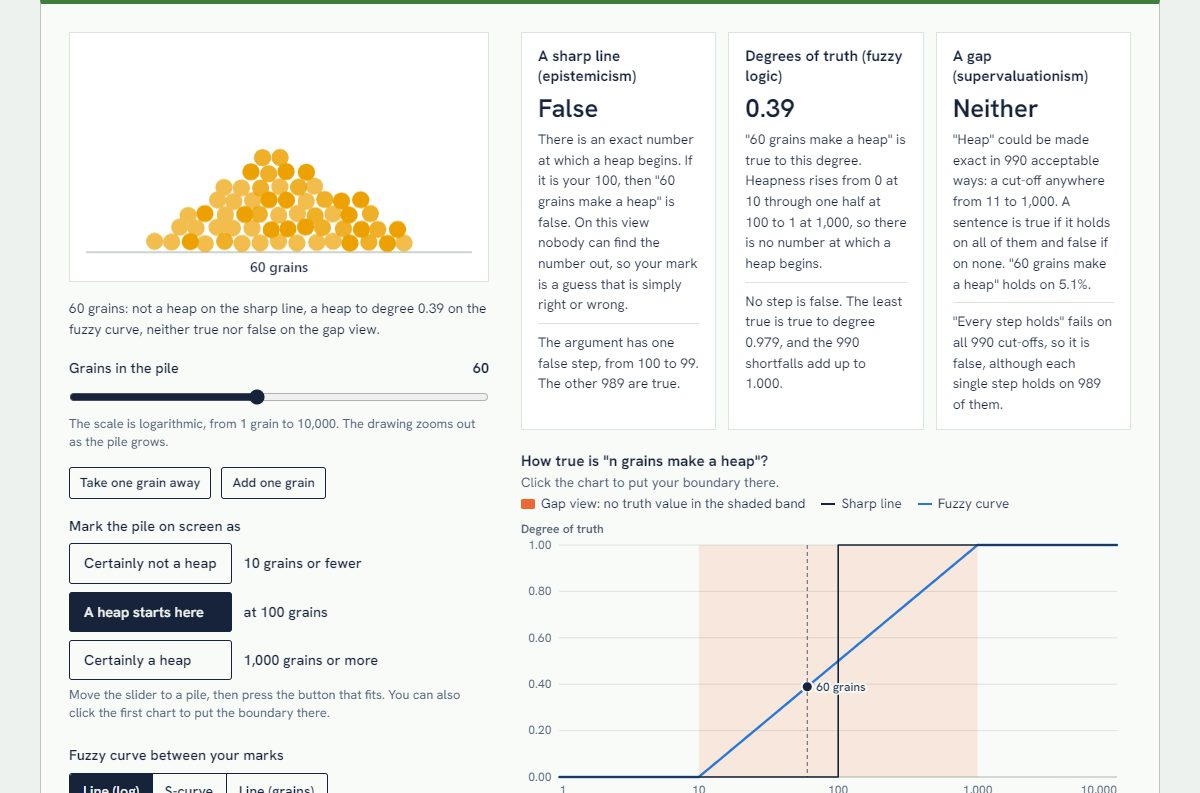
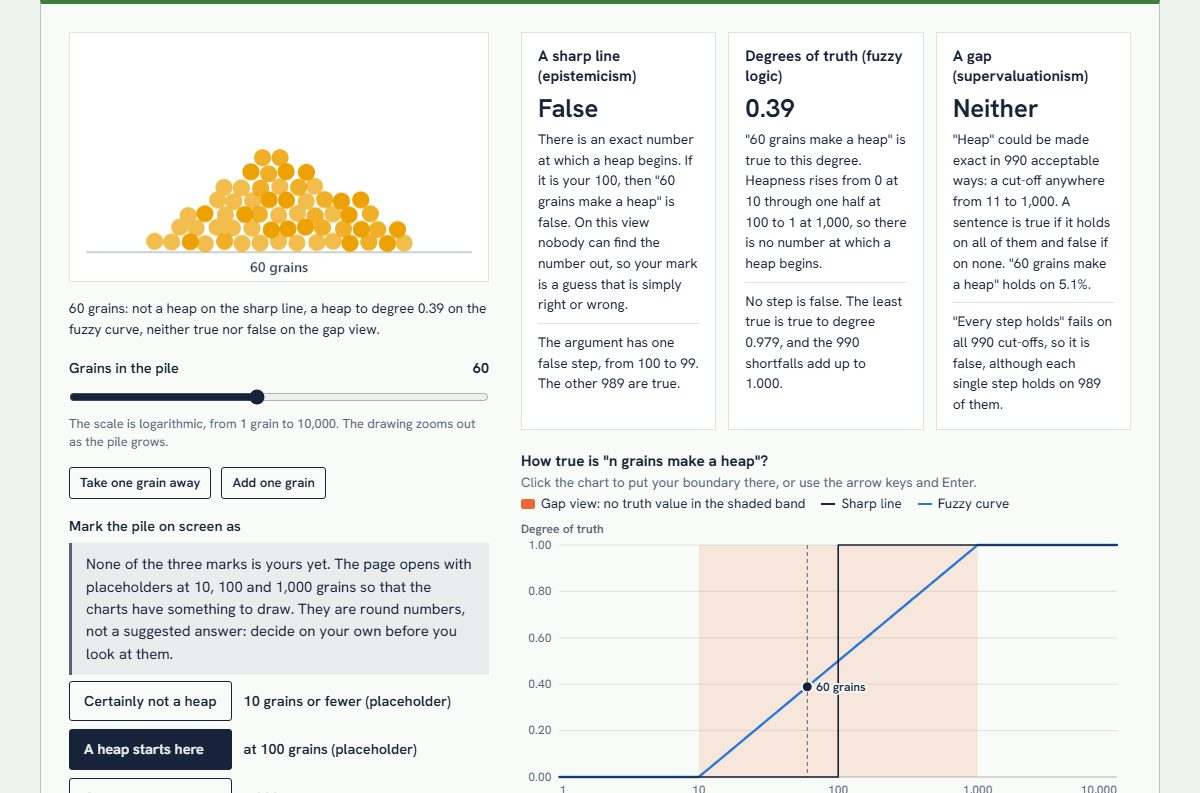
Review project 15: label placeholder marks, report tied steps, boundary wording

diff --git a/365projects/15/app.js b/365projects/15/app.js
@@ -5,7 +5,7 @@ import { MAX, DEFAULT_MARKS, SHAPES, grainsAt, positionOf, setMark, crisp, membe
 mount();
 
 const START = 60;
-const state = { n: START, marks: { ...DEFAULT_MARKS }, shape: "log", moved: [] };
+const state = { n: START, marks: { ...DEFAULT_MARKS }, own: { lo: false, mid: false, hi: false }, shape: "log", moved: [] };
 const grains = (n) => `${fmt.int(n)} grain${n === 1 ? "" : "s"}`;
 const MARK_NAMES = { lo: "certainly not a heap", mid: "where a heap starts", hi: "certainly a heap" };
 
@@ -14,8 +14,13 @@ const GRAINS = pile(MAX, 15);
 const look = rng(151);
 const LOOK = GRAINS.map(() => ({ dx: look.uniform(-0.12, 0.12), dy: look.uniform(-0.08, 0.08), shade: look.int(0, 2) }));
 // How far the pile of n grains reaches sideways and upwards, so that the drawing can zoom to fit it.
-const reach = new Int16Array(MAX + 1), top = new Int16Array(MAX + 1);
-GRAINS.forEach((g, i) => { reach[i + 1] = Math.max(reach[i], Math.abs(g.col) + 1); top[i + 1] = Math.max(top[i], g.row); });
+const reach = new Int16Array(MAX + 1), top = new Int16Array(MAX + 1), left = new Int16Array(MAX + 1), right = new Int16Array(MAX + 1);
+GRAINS.forEach((g, i) => {
+  reach[i + 1] = Math.max(reach[i], Math.abs(g.col) + 1); top[i + 1] = Math.max(top[i], g.row);
+  left[i + 1] = i ? Math.min(left[i], g.col) : g.col; right[i + 1] = i ? Math.max(right[i], g.col) : g.col;
+});
+// What the drawing shows, in words: the pile's width along the ground and its height at the peak, counted in grains.
+const pileInWords = (n) => `A drawing of a pile of ${grains(n)}, ${fmt.int(right[n] - left[n] + 1)} wide along the ground and ${fmt.int(top[n] + 1)} high at its peak`;
 const SHADES = [0.7, 0.85, 1];
 
 function drawPile(ctx, w, h) {
@@ -58,24 +63,27 @@ const step = (by) => { state.n = Math.min(MAX, Math.max(1, state.n + by)); state
 const lessBtn = button("Take one grain away", () => step(-1), { small: true });
 const moreBtn = button("Add one grain", () => step(1), { small: true });
 
-const mark = (which, n = state.n) => { const r = setMark(state.marks, which, n); state.marks = r.marks; state.moved = r.moved; render(); };
+const mark = (which, n = state.n) => { const r = setMark(state.marks, which, n); state.marks = r.marks; state.moved = r.moved; state.own[which] = true; render(); };
 const markRows = [
   { key: "lo", btn: button("Certainly not a heap", () => mark("lo")), says: (m) => `${grains(m.lo)} or fewer` },
   { key: "mid", btn: button("A heap starts here", () => mark("mid"), { primary: true }), says: (m) => `at ${grains(m.mid)}` },
   { key: "hi", btn: button("Certainly a heap", () => mark("hi")), says: (m) => `${grains(m.hi)} or more` },
-].map((r) => ({ ...r, value: el("span", { class: "mark-value" }) }));
+].map((r) => ({ ...r, value: el("span", { class: "mark-value", role: "status" }) }));
+const setText = (node, text) => { if (node.textContent !== text) node.textContent = text; };
 const movedBox = el("div");
+const placeholderBox = el("div");
 const shapeSeg = segmented({
   label: "Fuzzy curve between your marks", options: SHAPES, value: "log",
-  hint: "Straight lines on the log scale, an S-curve, or straight lines in the grain count. All three pass through 0 at your lower mark, one half at your boundary and 1 at your upper mark.",
+  hint: "Straight lines on the log scale, an S-curve, or straight lines in the grain count. All three pass through 0 at your lower mark, one half at your boundary and 1 at your upper mark. If the boundary and the upper mark are the same pile, the curve jumps to 1 there.",
   onChange: (v) => { state.shape = v; render(); },
 });
-const resetBtn = button("Reset the marks", () => { state.marks = { ...DEFAULT_MARKS }; state.moved = []; render(); }, { small: true });
+const resetBtn = button("Reset the marks", () => { state.marks = { ...DEFAULT_MARKS }; state.own = { lo: false, mid: false, hi: false }; state.moved = []; render(); }, { small: true });
 
 const controls = el("div", { class: "controls" },
   pileBox, summary, nSlider.el, el("div", { class: "row" }, lessBtn, moreBtn),
   el("div", { class: "field" },
     el("div", { class: "lab" }, el("span", { text: "Mark the pile on screen as" })),
+    placeholderBox,
     el("div", { class: "marks" }, markRows.map((r) => [r.btn, r.value])),
     el("div", { class: "hint", text: "Move the slider to a pile, then press the button that fits. You can also click the first chart to put the boundary there." }),
     movedBox),
@@ -131,34 +139,40 @@ function render() {
   moreBtn.disabled = n >= MAX;
   markRows[0].btn.disabled = n >= MAX;
   markRows[1].btn.disabled = markRows[2].btn.disabled = n < 2;
-  for (const r of markRows) r.value.textContent = r.says(m);
+  for (const r of markRows) setText(r.value, r.says(m) + (state.own[r.key] ? "" : " (placeholder)"));
+  const unset = markRows.filter((r) => !state.own[r.key]).length;
+  const wanted = unset === 0 ? "" : `${unset === 3 ? "None of the three marks is yours yet" : unset === 2 ? "Two of the marks are not yours yet" : "One mark is not yours yet"}. The page opens with placeholders at ${fmt.int(DEFAULT_MARKS.lo)}, ${fmt.int(DEFAULT_MARKS.mid)} and ${fmt.int(DEFAULT_MARKS.hi)} grains so that the charts have something to draw. They are round numbers, not a suggested answer: decide on your own before you look at them.`;
+  if (placeholderBox.textContent !== wanted) placeholderBox.replaceChildren(...(wanted ? [note("", wanted)] : []));
   movedBox.replaceChildren(...(state.moved.length ? [note("warn", `To keep the three marks in order, your mark for ${state.moved.map((k) => MARK_NAMES[k]).join(" and for ")} was moved too.`)] : []));
-  pileCanvas.el.setAttribute("aria-label", `A pile of ${grains(n)}`);
+  pileCanvas.el.setAttribute("aria-label", pileInWords(n));
   pileCanvas.redraw();
-  summary.textContent = `${grains(n)}: ${isHeap ? "a heap" : "not a heap"} on the sharp line, a heap to degree ${fmt.num(mu, 2)} on the fuzzy curve, ${sv.status === "gap" ? "neither true nor false" : sv.status === "true" ? "certainly a heap" : "certainly not a heap"} on the gap view.`;
+  setText(summary, `${grains(n)}: ${isHeap ? "a heap" : "not a heap"} on the sharp line, a heap to degree ${fmt.num(mu, 2)} on the fuzzy curve, ${sv.status === "gap" ? "neither true nor false" : sv.status === "true" ? "certainly a heap" : "certainly not a heap"} on the gap view.`);
 
   // The three readings of this pile.
   cSharp.v.textContent = isHeap ? "True" : "False";
   cSharp.about.textContent = `There is an exact number at which a heap begins. If it is your ${fmt.int(m.mid)}, then ${claim} is ${isHeap ? "true" : "false"}. On this view nobody can find the number out, so your mark is a guess that is simply right or wrong.`;
   cSharp.argument.textContent = arg.count === 1
     ? `The argument has one step, from ${fmt.int(m.mid)} to ${fmt.int(m.mid - 1)}, and it is false.`
-    : `The argument has one false step, from ${fmt.int(m.mid)} to ${fmt.int(m.mid - 1)}. The other ${fmt.int(arg.count - 1)} are true.`;
+    : `The argument has one false step, from ${fmt.int(m.mid)} to ${fmt.int(m.mid - 1)}. ${arg.count === 2 ? "The other one is true" : `The other ${fmt.int(arg.count - 1)} are true`}.`;
   cFuzzy.v.textContent = fmt.num(mu, 2);
-  cFuzzy.about.textContent = `${claim} is true to this degree. Heapness rises from 0 at ${fmt.int(m.lo)} through one half at ${fmt.int(m.mid)} to 1 at ${fmt.int(m.hi)}, so there is no number at which a heap begins.`;
+  cFuzzy.about.textContent = m.mid === m.hi
+    ? `${claim} is true to this degree. Your boundary and your "certainly a heap" mark are the same pile, so heapness ${m.mid - 1 === m.lo ? `is 0 up to ${fmt.int(m.lo)}` : `rises from 0 at ${fmt.int(m.lo)} to ${fmt.num(membership(m.mid - 1, m, shape), 3)} at ${fmt.int(m.mid - 1)}`} and then jumps to 1 at ${fmt.int(m.hi)}.`
+    : `${claim} is true to this degree. Heapness rises from 0 at ${fmt.int(m.lo)} through one half at ${fmt.int(m.mid)} to 1 at ${fmt.int(m.hi)}, so there is no number at which a heap begins.`;
   cFuzzy.argument.textContent = arg.count === 1
     ? "With the marks this close the curve is a sharp line, and the one step is false."
-    : `No step is false. The least true is true to degree ${deg(arg.weakest.truth)}, and the ${fmt.int(arg.count)} shortfalls add up to ${deg(arg.lost)}.`;
+    : arg.tied === arg.count ? `No step is false. ${arg.count === 2 ? "Both" : `All ${fmt.int(arg.count)}`} are true to the same degree, ${deg(arg.weakest.truth)}, and their shortfalls add up to ${deg(arg.lost)}.`
+    : `No step is false. The ${arg.tied > 1 ? `${fmt.int(arg.tied)} least true are each` : "least true is"} true to degree ${deg(arg.weakest.truth)}, and the ${fmt.int(arg.count)} shortfalls add up to ${deg(arg.lost)}.`;
   cGap.v.textContent = sv.status === "gap" ? "Neither" : sv.status === "true" ? "True" : "False";
-  cGap.about.textContent = `"Heap" could be made exact in ${fmt.int(sv.sharpenings)} acceptable way${sv.sharpenings === 1 ? "" : "s"}: a cut-off anywhere from ${fmt.int(m.lo + 1)} to ${fmt.int(m.hi)}. A sentence is true if it holds on all of them and false if on none. ${claim} holds on ${fmt.pct(sv.share, sv.share > 0 && sv.share < 0.1 ? 1 : 0)}.`;
+  cGap.about.textContent = `"Heap" could be made exact in ${fmt.int(sv.sharpenings)} acceptable way${sv.sharpenings === 1 ? "" : "s"}: a cut-off ${sv.sharpenings === 1 ? `at ${fmt.int(m.hi)}` : `anywhere from ${fmt.int(m.lo + 1)} to ${fmt.int(m.hi)}`}. A sentence is true if it holds on all of them and false if on none. ${claim} holds on ${fmt.pct(sv.share, sv.share > 0 && sv.share < 0.1 ? 1 : 0)}.`;
   cGap.argument.textContent = sv.sharpenings === 1
     ? "With one acceptable cut-off there is no gap, and the one step is false."
-    : `"Every step holds" fails on all ${fmt.int(sv.sharpenings)} cut-offs, so it is false, although each single step holds on ${fmt.int(sv.sharpenings - 1)} of them.`;
+    : `"Every step holds" fails on ${sv.sharpenings === 2 ? "both" : `all ${fmt.int(sv.sharpenings)}`} cut-offs, so it is false, although each single step holds on ${fmt.int(sv.sharpenings - 1)} of them.`;
 
   // First chart: the three models over the whole scale.
   const sizes = sampleSizes(m);
   modelChart.update({
     title: `How true is "n grains make a heap"?`,
-    subtitle: "Click the chart to put your boundary there.",
+    subtitle: "Click the chart to put your boundary there, or use the arrow keys and Enter.",
     label: "Line chart of the degree of truth of the claim that n grains make a heap, under three models",
     x: { label: "Grains (log scale)", type: "log", domain: [1, MAX], format: (v) => fmt.int(v) },
     y: { label: "Degree of truth", domain: [0, 1], format: (v) => fmt.num(v, 2) },
@@ -175,12 +189,15 @@ function render() {
   argumentText.replaceChildren(
     el("ol", { class: "argument" },
       el("li", { text: `${grains(m.hi)} make a heap. (Your "certainly a heap" mark.)` }),
-      el("li", { text: `If n grains make a heap, then n − 1 grains make a heap. (Asserted ${fmt.int(arg.count)} time${arg.count === 1 ? "" : "s"}, for n from ${fmt.int(m.hi)} down to ${fmt.int(m.lo + 1)}.)` }),
+      el("li", { text: `If n grains make a heap, then n − 1 grains make a heap. (Asserted ${arg.count === 1 ? `once, for n = ${fmt.int(m.hi)}` : `${arg.count === 2 ? "twice" : `${fmt.int(arg.count)} times`}, for n from ${fmt.int(m.hi)} down to ${fmt.int(m.lo + 1)}`}.)` }),
       el("li", { text: `So ${grains(m.lo)} make${m.lo === 1 ? "s" : ""} a heap. (Which you marked as certainly false.)` })),
     el("p", { class: "small muted", text: "In Łukasiewicz logic a step from n to n − 1 falls short of full truth by exactly the amount that heapness drops between the two piles. Each use of a step lets the conclusion's guaranteed truth fall by that much, and the drops must add up to the whole distance from 1 to 0." }));
   sSteps.set(fmt.int(arg.count), `from ${fmt.int(m.hi)} grains down to ${fmt.int(m.lo)}`);
-  sWeak.set(deg(arg.weakest.truth), `from ${fmt.int(arg.weakest.n)} grains to ${fmt.int(arg.weakest.n - 1)}`);
-  sLost.set(deg(arg.lost), `${fmt.int(arg.count - arg.perfect)} of ${fmt.int(arg.count)} steps lose something`);
+  sWeak.set(deg(arg.weakest.truth), arg.tied > 1 && arg.tiedFrom - arg.tiedTo + 1 === arg.tied
+    ? `shared by ${arg.tied === 2 ? "both" : `${arg.tied === arg.count ? "all" : "the"} ${fmt.int(arg.tied)}`} steps from ${fmt.int(arg.tiedFrom)} grains down to ${fmt.int(arg.tiedTo - 1)}`
+    : arg.tied > 1 ? `shared by ${fmt.int(arg.tied)} steps, the first from ${fmt.int(arg.weakest.n)} grains to ${fmt.int(arg.weakest.n - 1)}`
+    : `from ${fmt.int(arg.weakest.n)} grains to ${fmt.int(arg.weakest.n - 1)}`);
+  sLost.set(deg(arg.lost), arg.count === 1 ? "the one step loses all of it" : `${fmt.int(arg.count - arg.perfect)} of ${fmt.int(arg.count)} steps lose something`);
   sFalse.set("1", `from ${fmt.int(m.mid)} grains to ${fmt.int(m.mid - 1)}`);
 
   // Second chart: the chain, thinned to a few hundred points when it is long, always keeping the least true step.

diff --git a/365projects/15/index.html b/365projects/15/index.html
@@ -49,12 +49,12 @@
     <section class="p-sec">
       <h2>How it works</h2>
       <h3>The scale and the marks</h3>
-      <p>The slider has 401 positions, and position <var>v</var> shows <var>n</var> = 10<sup><var>v</var>/100</sup> grains rounded to a whole number, so it runs from 1 to 10,000 on a logarithmic scale. Two buttons move one grain at a time. You place three marks: the largest pile that is certainly not a heap, <var>L</var>; the smallest pile you would call a heap if you had to choose, <var>b</var>; and the smallest pile that is certainly a heap, <var>U</var>. The tool keeps 1 ≤ <var>L</var> &lt; <var>b</var> ≤ <var>U</var> ≤ 10,000 and moves a neighbouring mark, with a notice, when a new one would break that order.</p>
+      <p>The slider has 401 positions, and position <var>v</var> shows <var>n</var> = 10<sup><var>v</var>/100</sup> grains rounded to a whole number, so it runs from 1 to 10,000 on a logarithmic scale. Two buttons move one grain at a time. You place three marks: the largest pile that is certainly not a heap, <var>L</var>; the smallest pile you would call a heap if you had to choose, <var>b</var>; and the smallest pile that is certainly a heap, <var>U</var>. The tool keeps 1 ≤ <var>L</var> &lt; <var>b</var> ≤ <var>U</var> ≤ 10,000 and moves a neighbouring mark, with a notice, when a new one would break that order. So that the charts have something to draw before you have chosen, the page opens with placeholder marks at 10, 100 and 1,000 grains, and labels each one as a placeholder until you replace it.</p>
       <h3>The sharp line</h3>
       <p class="eq">heap(<var>n</var>) is true when <var>n</var> ≥ <var>b</var>, and false otherwise</p>
       <p>This is how an epistemicist reads your boundary: as a guess at a cut-off that exists whether or not anyone can know it.</p>
       <h3>The fuzzy curve</h3>
-      <p>The membership function <var>μ</var>(<var>n</var>) gives the degree to which <var>n</var> grains make a heap. It is 0 up to <var>L</var>, 1 from <var>U</var>, and passes through ½ at <var>b</var>. With <var>p</var>(<var>x</var>) = ln <var>x</var>:</p>
+      <p>The membership function <var>μ</var>(<var>n</var>) gives the degree to which <var>n</var> grains make a heap. It is 0 up to <var>L</var>, 1 from <var>U</var>, and passes through ½ at <var>b</var>. (If you put <var>b</var> and <var>U</var> on the same pile, the value there is 1: the curve climbs to just under ½ at <var>b</var> − 1 and then jumps.) With <var>p</var>(<var>x</var>) = ln <var>x</var>:</p>
       <p class="eq"><var>μ</var>(<var>n</var>) = ½ · (<var>p</var>(<var>n</var>) − <var>p</var>(<var>L</var>)) / (<var>p</var>(<var>b</var>) − <var>p</var>(<var>L</var>)) &nbsp; for <var>L</var> &lt; <var>n</var> &lt; <var>b</var></p>
       <p class="eq"><var>μ</var>(<var>n</var>) = ½ + ½ · (<var>p</var>(<var>n</var>) − <var>p</var>(<var>b</var>)) / (<var>p</var>(<var>U</var>) − <var>p</var>(<var>b</var>)) &nbsp; for <var>b</var> ≤ <var>n</var> &lt; <var>U</var></p>
       <p>That is two straight lines on the log scale, the option "Line (log)". "Line (grains)" uses <var>p</var>(<var>x</var>) = <var>x</var> instead. The S-curve keeps the log scale and replaces the fraction <var>t</var> in the first line by <var>t</var>² and in the second by 1 − (1 − <var>t</var>)², which flattens the curve near 0 and near 1. Only the three marks come from you; the shape between them is an assumption you can switch.</p>
@@ -69,7 +69,7 @@
       <p class="eq"><var>v</var>(<var>B</var>) ≥ max(0, <var>v</var>(<var>A</var>) + <var>v</var>(<var>A</var> → <var>B</var>) − 1)</p>
       <p>The tool starts from "<var>U</var> grains make a heap" at truth 1 and applies this bound once for each step down to <var>L</var>. The shortfalls telescope:</p>
       <p class="eq">(1 − <var>t</var><sub><var>U</var></sub>) + … + (1 − <var>t</var><sub><var>L</var>+1</sub>) = <var>μ</var>(<var>U</var>) − <var>μ</var>(<var>L</var>) = 1</p>
-      <p>Whatever the shape of the curve, the losses add up to exactly 1 and the conclusion is left with a guaranteed truth of 0. The shape decides only how the loss is shared out among the steps. The second chart plots both quantities for every step; when there are more than 500 steps it draws an evenly spaced sample, always including the least true step, and the figures in the tiles are computed from all of them.</p>
+      <p>Whatever the shape of the curve, the losses add up to exactly 1 and the conclusion is left with a guaranteed truth of 0. The shape decides only how the loss is shared out among the steps. On "Line (grains)" every step on the same straight piece loses the same amount, so the least true step is a tie between all of them, and the tool says so. The second chart plots both quantities for every step; when there are more than 500 steps it draws an evenly spaced sample, always including the least true step, and the figures in the tiles are computed from all of them.</p>
       <h3>The drawing</h3>
       <p>The pile is a simple sand model, fixed by a seed so that it is the same on every visit. Each grain is dropped near the middle and rolls downhill until neither neighbouring column is lower, which keeps every slope at one grain per column or less. Adding a grain never moves an earlier one, so the pile of <var>n</var> grains is always the first <var>n</var> grains of the same pile of 10,000.</p>
     </section>
@@ -77,7 +77,7 @@
     <section class="p-sec">
       <h2>What this cannot tell you</h2>
       <ul>
-        <li><strong>Where a heap starts.</strong> There is no measurement the tool could check your marks against. They record how you use a word, and people differ.</li>
+        <li><strong>Where a heap starts.</strong> There is no measurement the tool could check your marks against. They record how you use a word, and people differ. The placeholder marks the page opens with, 10, 100 and 1,000, are round numbers and not a finding; having seen them first, you may place your own nearer to them than you otherwise would.</li>
         <li><strong>Which theory of vagueness is right.</strong> All three handle your marks without contradiction. They disagree about what the marks mean, and nothing computed here chooses between them.</li>
         <li><strong>What to do about higher-order vagueness.</strong> The tool asks for exact bounds on "certainly", but the point at which a pile becomes certainly a heap is no sharper than the point at which it becomes a heap. A fuzzy value of exactly 0.389 and a gap that starts at exactly 11 grains are open to the same complaint as a sharp line at 100.</li>
         <li><strong>That the steps are "nearly true" on every fuzzy logic.</strong> That result belongs to Łukasiewicz's conditional. Under Gödel's, a step whose consequent is less true than its antecedent is only as true as the consequent, so the steps near the bottom of the curve are nearly false. Fuzzy logics also make "this is a heap and it is not a heap" half true of a borderline pile under the usual minimum rule, which critics count as a plain falsehood.</li>
@@ -101,15 +101,15 @@
     <section class="p-sec">
       <h2>Sources</h2>
       <ul class="refs">
-        <li>Hyde, D., and Raffman, D. Sorites paradox. <em>Stanford Encyclopedia of Philosophy</em>.</li>
+        <li>Raffman, D., and Hyde, D. Sorites paradox. <em>Stanford Encyclopedia of Philosophy</em> (first published 1997, revised 2025).</li>
         <li>Sorensen, R. Vagueness. <em>Stanford Encyclopedia of Philosophy</em>.</li>
-        <li>Williamson, T. (1994). <em>Vagueness</em>. Routledge.</li>
-        <li>Fine, K. (1975). Vagueness, truth and logic. <em>Synthese</em>, 30, 265-300.</li>
-        <li>Zadeh, L. A. (1965). Fuzzy sets. <em>Information and Control</em>, 8, 338-353.</li>
-        <li>Goguen, J. A. (1969). The logic of inexact concepts. <em>Synthese</em>, 19, 325-373.</li>
-        <li>Machina, K. F. (1976). Truth, belief, and vagueness. <em>Journal of Philosophical Logic</em>, 5, 47-78.</li>
+        <li>Williamson, T. (1994). <em>Vagueness</em>. London: Routledge.</li>
+        <li>Fine, K. (1975). Vagueness, truth and logic. <em>Synthese</em>, 30(3-4), 265-300.</li>
+        <li>Zadeh, L. A. (1965). Fuzzy sets. <em>Information and Control</em>, 8(3), 338-353.</li>
+        <li>Goguen, J. A. (1969). The logic of inexact concepts. <em>Synthese</em>, 19(3-4), 325-373.</li>
+        <li>Machina, K. F. (1976). Truth, belief, and vagueness. <em>Journal of Philosophical Logic</em>, 5(1), 47-78.</li>
         <li>Keefe, R. (2000). <em>Theories of Vagueness</em>. Cambridge University Press.</li>
-        <li>Keefe, R., and Smith, P. (eds.) (1997). <em>Vagueness: A Reader</em>. MIT Press.</li>
+        <li>Keefe, R., and Smith, P. (eds.). <em>Vagueness: A Reader</em>. MIT Press.</li>
         <li>Smith, N. J. J. (2008). <em>Vagueness and Degrees of Truth</em>. Oxford University Press.</li>
         <li>Raffman, D. (2014). <em>Unruly Words: A Study of Vague Language</em>. Oxford University Press.</li>
       </ul>

diff --git a/365projects/15/logic.js b/365projects/15/logic.js
@@ -86,6 +86,9 @@ export const strongAnd = (a, b) => Math.max(0, a + b - 1);
  *   truth  its degree of truth in Lukasiewicz logic
  *   loss   1 - truth
  *   left   the degree of truth that modus ponens still guarantees for "n - 1 grains make a heap"
+ * weakest is the least true step. When several steps are equally untrue (every step on a straight piece of the
+ * "grains" shape loses the same amount) it is the first of them, tied says how many there are, and tiedFrom and tiedTo
+ * give the largest and smallest n among them.
  */
 export function sorites(marks, shape = "log") {
   const { lo, mid, hi } = marks;
@@ -105,7 +108,9 @@ export function sorites(marks, shape = "log") {
     above = below;
   }
   const strongest = steps.reduce((best, s) => (s.truth > best.truth ? s : best), steps[0]);
-  return { steps, count: hi - lo, lost, left, weakest, strongest, perfect, falseStep: mid };
+  // Steps within rounding error of the least true one count as equally untrue.
+  const level = steps.filter((s) => s.truth - weakest.truth < 1e-9);
+  return { steps, count: hi - lo, lost, left, weakest: level[0], tied: level.length, tiedFrom: level[0].n, tiedTo: level[level.length - 1].n, strongest, perfect, falseStep: mid };
 }
 
 /**
